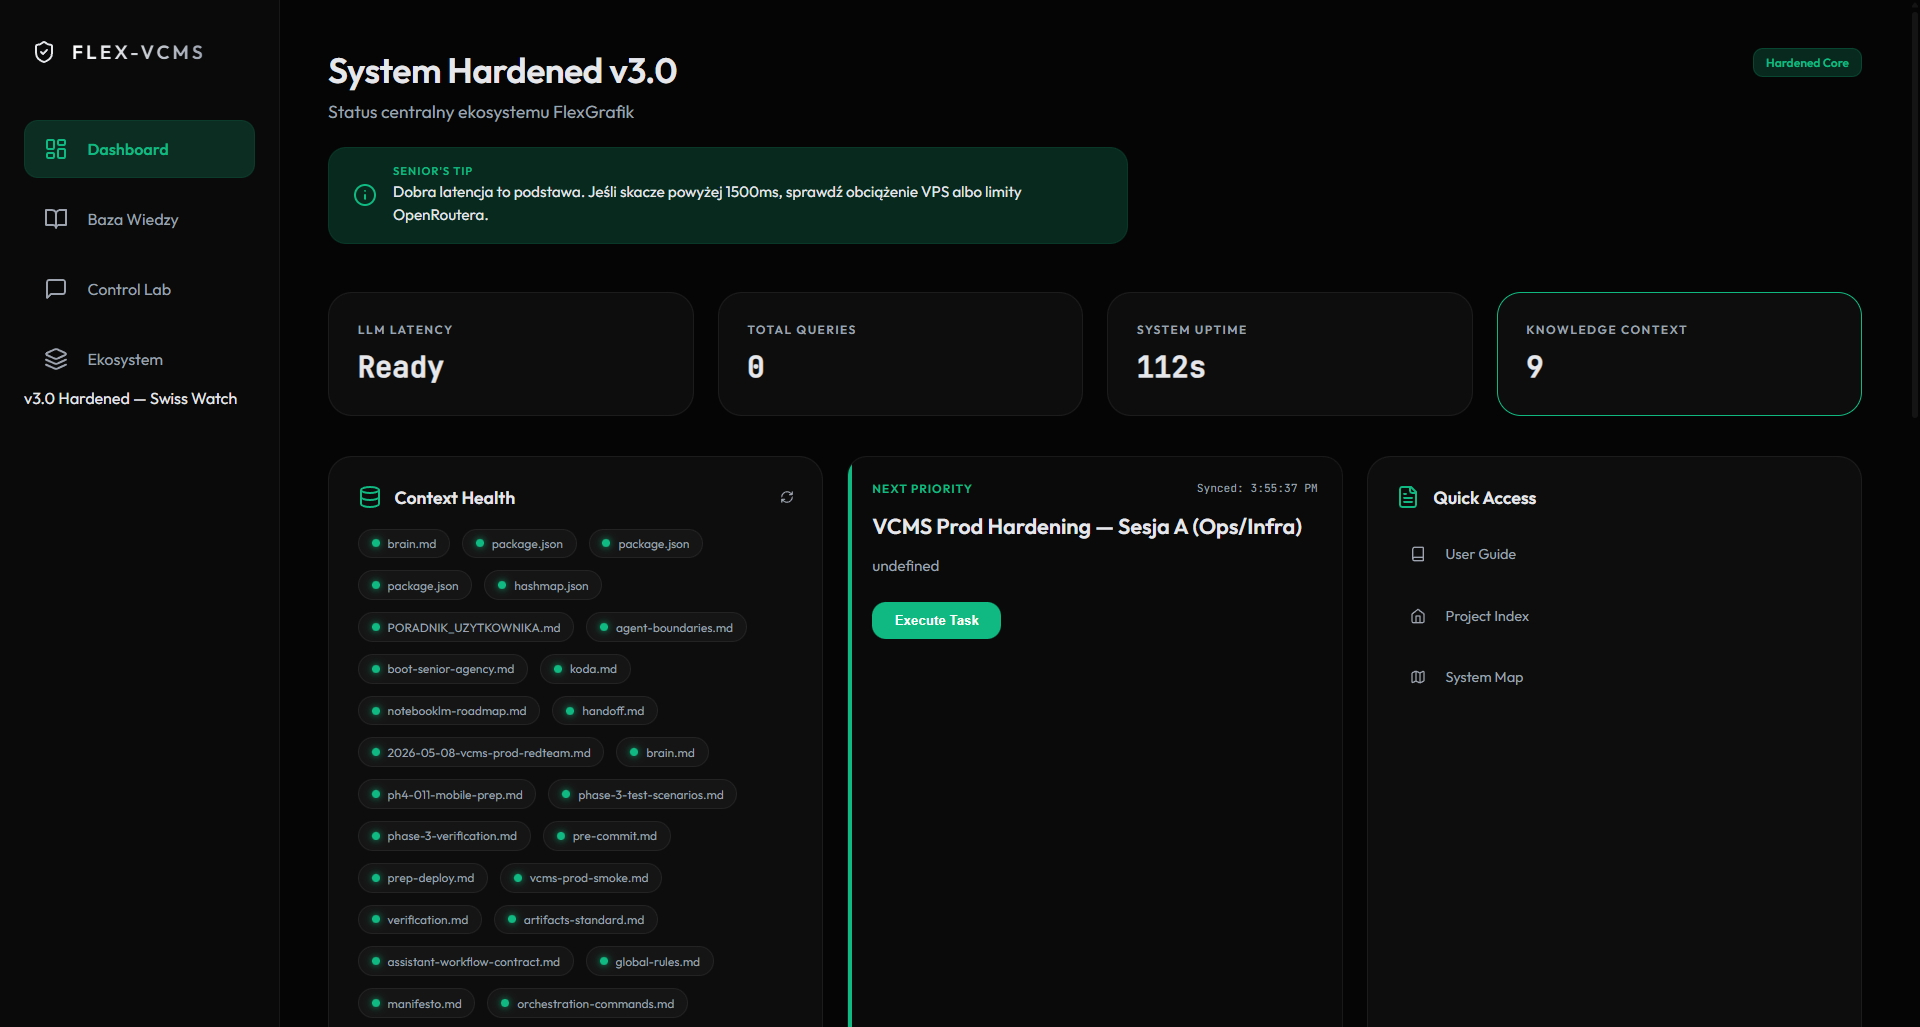
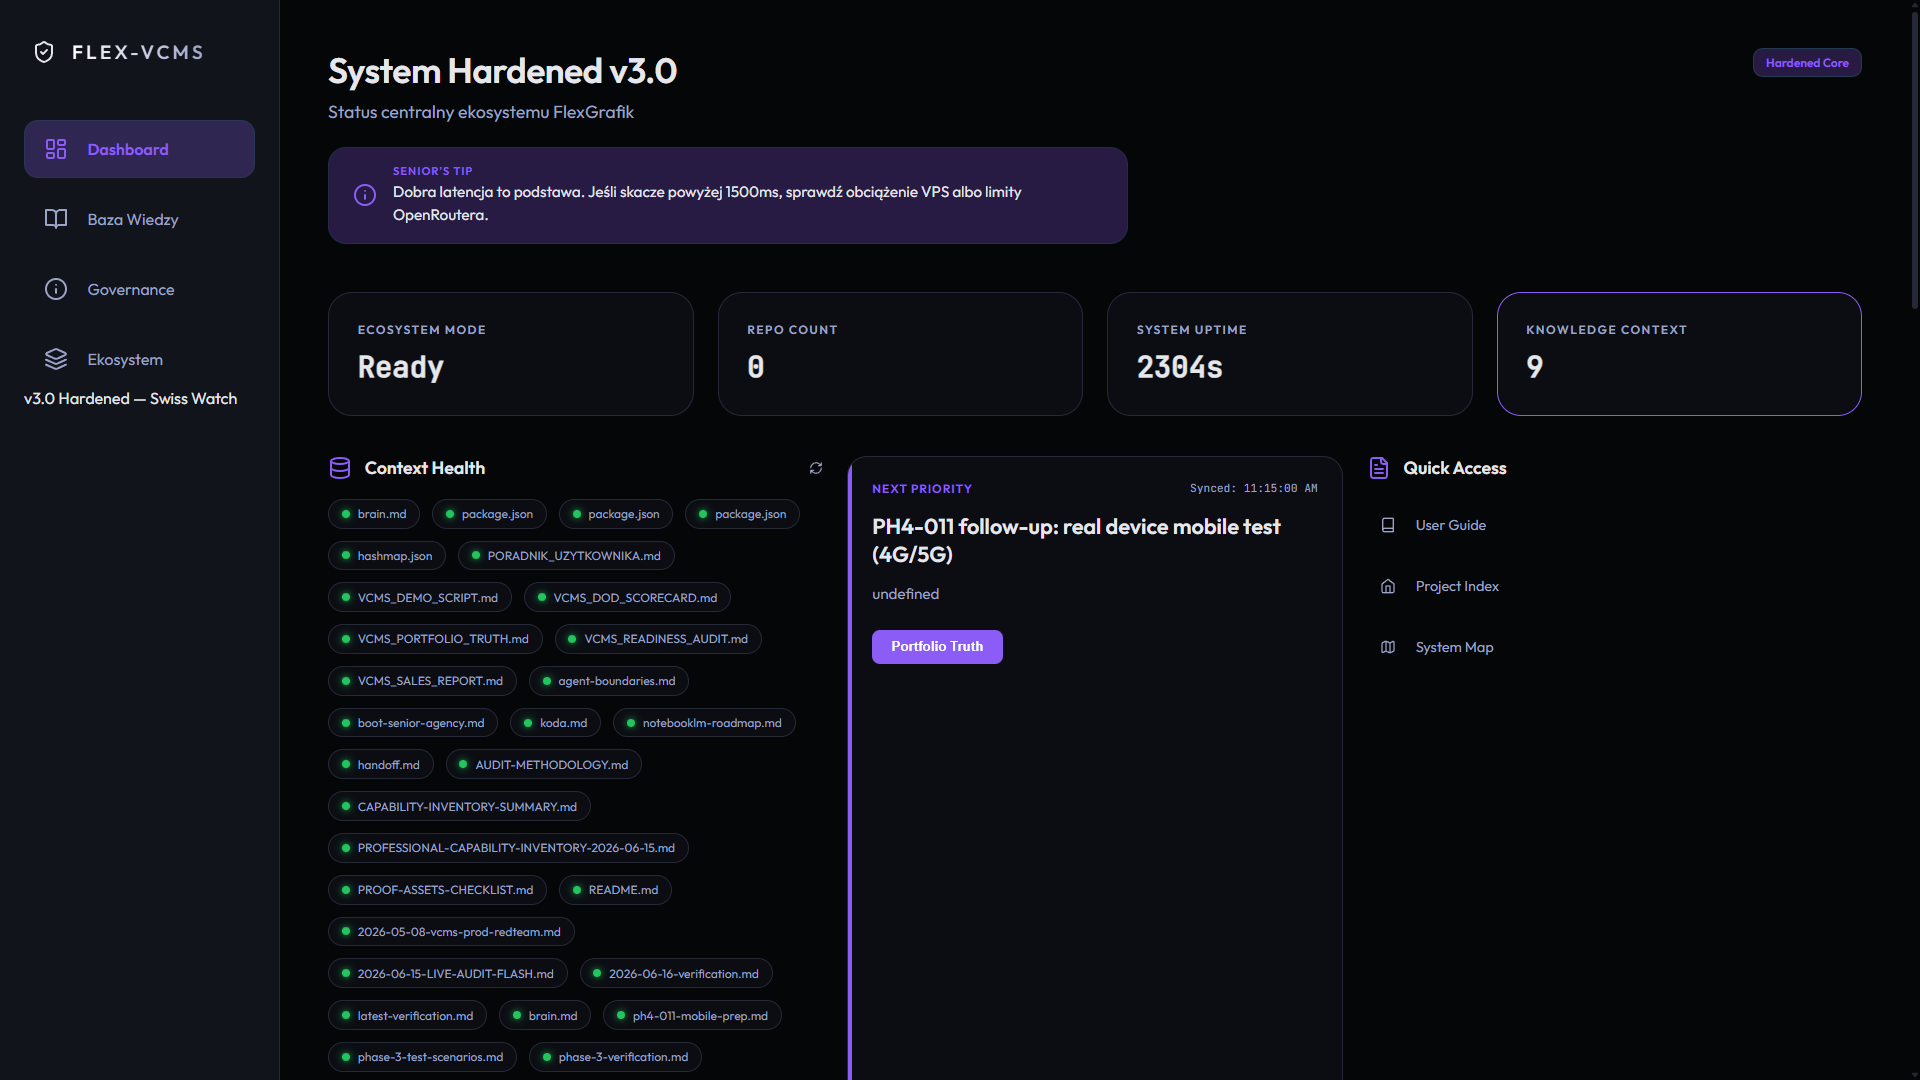
feat(portfolio): VCMS governance copy KROK 4 + conflict report proof
Align Behind the Scenes with DoD headline/outcomes, add DEMO conflict fixture, refresh dashboard screenshot, wire IntentRouter to owner-ecosystem.

diff --git a/src/components/home/IntentRouter.tsx b/src/components/home/IntentRouter.tsx
@@ -66,10 +66,10 @@ const MODULES: ModuleInfo[] = [
   },
   {
     id: 'm5',
-    name: 'VCMS (Command Center)',
-    effect: 'Jeden dashboard do zarządzania wszystkim i podejmowania decyzji.',
+    name: 'VCMS (Governance Layer)',
+    effect: 'Skan 8 repo, konflikty SSoT i handoffy — warstwa nadzoru przed deployem.',
     intents: ['order', 'calm'],
-    link: '#',
+    link: '/results/owner-ecosystem',
   },
   {
     id: 'm6',

diff --git a/src/components/home/BehindTheScenes.tsx b/src/components/home/BehindTheScenes.tsx
@@ -27,6 +27,7 @@ export default function BehindTheScenes() {
 
   const activeScreens = [
     screens.vcmsDashboard,
+    screens.conflictReport,
     screens.agentCards,
     screens.workflowMap,
   ].filter((s) => s.ready && s.src);
@@ -45,10 +46,10 @@ export default function BehindTheScenes() {
         >
           <span className="qf-eyebrow">// Behind the scenes</span>
           <h2 className="mt-[var(--qf-sp-4)] text-[var(--qf-fs-2xl)] font-bold">
-            Most agencies show you a website.
+            The governance layer behind the system.
           </h2>
           <p className="mx-auto mt-[var(--qf-sp-4)] max-w-2xl text-[var(--qf-text-dim)]">
-            Here&apos;s the governance layer behind it — VCMS scans repos and sources of truth before changes reach production.
+            VCMS scans content, repos and agent rules before changes reach production — so your business does not depend on memory, screenshots or one developer&apos;s inbox.
           </p>
         </motion.div>
 

diff --git a/src/content/proof.ts b/src/content/proof.ts
@@ -49,7 +49,8 @@ export const screens: Record<string, ScreenShot> = {
   auditLog:        { src: "/gratka/audit-log.png", alt: "Activity audit log", caption: "Who did what, when — available on request.", ready: false },
   agentCards:      { src: "/gratka/agent-cards.png", alt: "Agent cards", caption: "Every agent has a role, rules and a review gate.", ready: true },
   workflowMap:     { src: "/gratka/workflow-map.png", alt: "Agent pipeline workflow", caption: "Plan → code → test → review → approve.", ready: true },
-  vcmsDashboard:   { src: "/gratka/vcms-dashboard.png", alt: "VCMS governance dashboard", caption: "Ecosystem scan status, 8-repo coverage and conflict report — governance orchestrator.", ready: true },
+  vcmsDashboard:   { src: "/gratka/vcms-dashboard.png", alt: "VCMS governance dashboard", caption: "Scan status, 8-repo coverage and review pointers — governance command center (live).", ready: true },
+  conflictReport:  { src: "/gratka/conflict-report.svg", alt: "VCMS conflict report (demo fixture)", caption: "Example SSoT mismatch flagged before deploy — DEMO fixture; live scan target is Conflicts: 0.", ready: true },
   portalAssistant: { src: "/gratka/portal-assistant.png", alt: "Customer-facing portal assistant", caption: "Qualification assistant in the customer portal.", ready: true },
   adminDashboard:  { src: "/gratka/admin-dashboard.png", alt: "Admin monitoring dashboard", caption: "Task approvals and system health, visible at all times.", ready: true },
 };